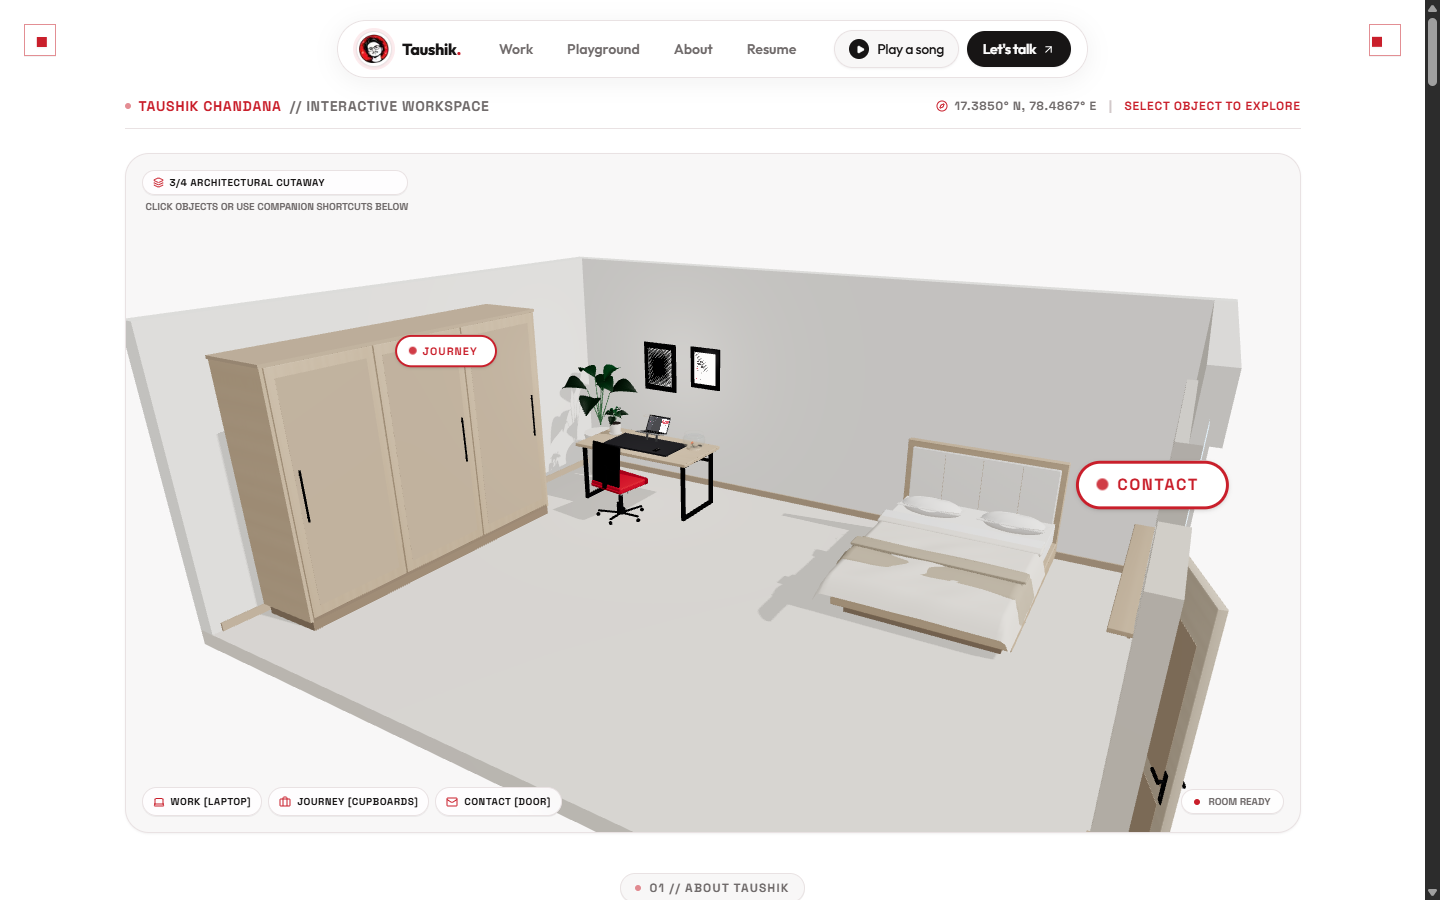
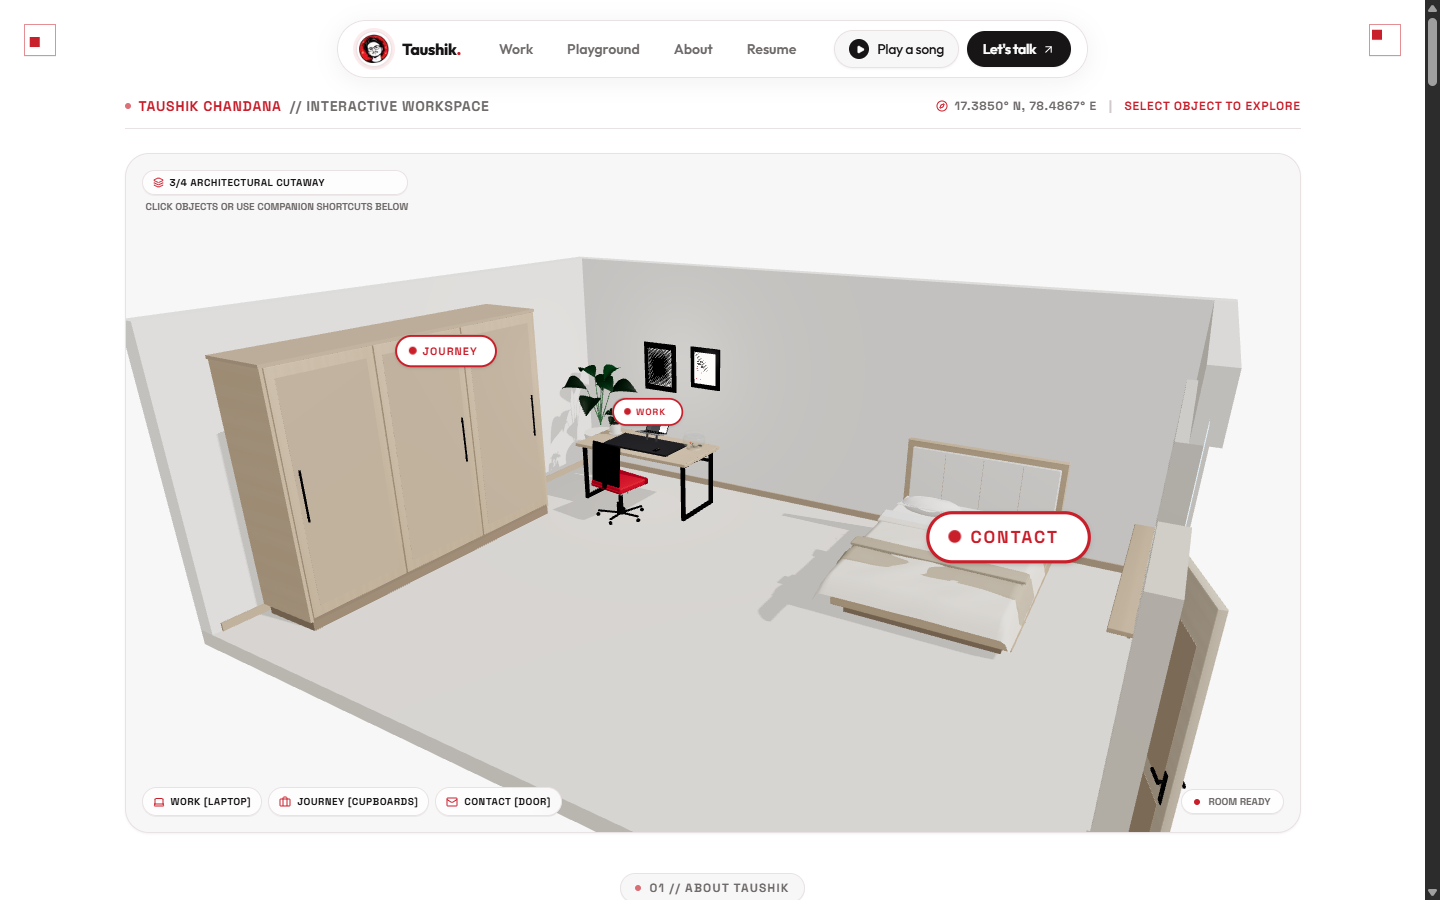
fix(room): ensure 3D work hotspot rendering and resolve mobile contact badge clipping

diff --git a/src/components/room/RoomFurniture.tsx b/src/components/room/RoomFurniture.tsx
@@ -13,6 +13,7 @@ import { Door } from "./models/Door";
 import { HangingQuotes } from "./models/HangingQuotes";
 import { Fishbowl } from "./models/Fishbowl";
 import { Plant } from "./models/Plant";
+import { Html } from "@react-three/drei";
 import { RoomHotspot } from "./RoomHotspot";
 import { RoomInteractionTarget, ROOM_HOTSPOTS } from "./roomInteractionTypes";
 
@@ -76,17 +77,25 @@ export function RoomFurniture({
       {/* ── 5. 3D Navigation Hotspots (Phase 3C.1) ── */}
       {onSelect && (
         <group name="room-interactive-hotspots">
+          {/* Sacrificial Drei HTML anchor to absorb R3F portal initialization in React 19 */}
+          <Html style={{ display: "none" }}>
+            <span aria-hidden="true" />
+          </Html>
+
           <RoomHotspot
+            key="laptop"
             hotspot={ROOM_HOTSPOTS.laptop}
             activeTarget={activeTarget}
             onSelect={onSelect}
           />
           <RoomHotspot
+            key="wardrobe"
             hotspot={ROOM_HOTSPOTS.wardrobe}
             activeTarget={activeTarget}
             onSelect={onSelect}
           />
           <RoomHotspot
+            key="door"
             hotspot={ROOM_HOTSPOTS.door}
             activeTarget={activeTarget}
             onSelect={onSelect}

diff --git a/src/components/room/roomInteractionTypes.ts b/src/components/room/roomInteractionTypes.ts
@@ -40,7 +40,7 @@ export const ROOM_HOTSPOTS: Record<"laptop" | "wardrobe" | "door", RoomHotspotDa
     title: "Contact & Connect",
     category: "Inquiries & Socials",
     badge: "CONTACT",
-    position: [3.45, 2.08, 0.55],
+    position: [2.75, 1.80, 1.15],
     cameraPosition: [1.35, 1.60, 0.85],
     cameraTarget: [3.50, 1.25, 0.55],
     cameraFov: 46,

diff --git a/docs/IMPLEMENTATION_LOG.md b/docs/IMPLEMENTATION_LOG.md
@@ -93,3 +93,38 @@ Address user feedback on Phase 3C.1:
 - `git diff --check`: 0 issues.
 - All 12 screenshots captured via CDP automated script with 0px horizontal overflow.
 - Demand rendering preserved; zero continuous render loop.
+
+---
+
+## [Phase 3C.1.2] Hotspot Visibility & Mobile Clipping Resolution — 2026-11-06
+
+### Intent & Scope
+Resolve the two specific visual review findings from Phase 3C.1.1:
+1. **Mobile CONTACT Hotspot Clipping:** The floating CONTACT badge was cut off at the right edge on 390px viewports because the original door 3D coordinate (`X = 3.45`) projected too close to the right screen boundary (screen $X = 360\text{px}$, clipping by ~10px).
+2. **WORK Hotspot Visibility Confirmation:** In overview captures, the WORK label was missing from the 3D room above the laptop due to React 19 async portal hydration with `@react-three/drei` `<Html>`.
+
+### Root Cause Analysis & Engineering Solutions
+1. **Door Hotspot Repositioning (`roomInteractionTypes.ts`):**
+   - Shifted `ROOM_HOTSPOTS.door.position` from `[3.45, 2.08, 0.55]` to `[2.75, 1.80, 1.15]`.
+   - On 390px mobile, center anchor projects to screen $X = 321\text{px}$ (right edge $X = 364\text{px}$), leaving a healthy 26px padding inside the cutaway card.
+   - On 1440px desktop, center anchor projects to $X = 1038\text{px}$, naturally framing the entrance threshold without obscuring the bed or window.
+
+2. **Drei HTML Hydration & Portal Anchor (`RoomFurniture.tsx`):**
+   - In React 19, R3F's initial event container reconnection triggered an unmount/remount on the first Drei `<Html>` element in the scene graph, causing its root container to become unmounted with empty innerHTML.
+   - Added a lightweight sacrificial Drei `<Html style={{ display: "none" }}>` anchor at the start of the hotspot group to absorb the initial portal connection lifecycle.
+   - Added explicit, stable keys (`key="laptop"`, `key="wardrobe"`, `key="door"`) to ensure permanent DOM attachment for all 3 interactive markers.
+
+### Verification & Metrics
+- `tsc --noEmit`: 0 errors.
+- `next build`: Production build passes in 3.0s.
+- `DOM Inspection`: All three buttons (`WORK`, `JOURNEY`, `CONTACT`) verified simultaneously in the DOM with active bounding boxes:
+  - Mobile (390x844): WORK `[left: 113, right: 160]`, JOURNEY `[left: 29, right: 99]`, CONTACT `[left: 278, right: 364]`. `clippedRight: false` for all. Horizontal overflow: 0px.
+  - Desktop (1440x900): WORK `[left: 612, top: 398]`, JOURNEY `[left: 395, top: 335]`, CONTACT `[left: 926, top: 511]`. All visible.
+  - Tablet (768x1024): All three hotspots visible with > 180px safe margins.
+- `Interaction Testing`: Click on 3D WORK button opens Selected Work drawer with full project portfolio (Dev Atlas, Abtalks, Creonix, PrepBlitz, Nexus GG, Palmist.io, Equifiz).
+- All 12 screenshots re-captured and synchronized across all 5 destinations:
+  - `C:\Users\TNEX\OneDrive\Desktop\Phase3C1_1_Screenshots\`
+  - `C:\Users\TNEX\Desktop\Phase3C1_1_Screenshots\`
+  - `C:\Users\TNEX\OneDrive\Desktop\techvruk\Phase3C1_1_Screenshots\`
+  - `C:\Users\TNEX\OneDrive\Desktop\portcomp\PORTFOLIO\screenshots\phase-3c-1-1\`
+  - `C:\Users\TNEX\.gemini\antigravity\brain\a525ee37-e34c-4994-9a91-364c9e0f7797\`
